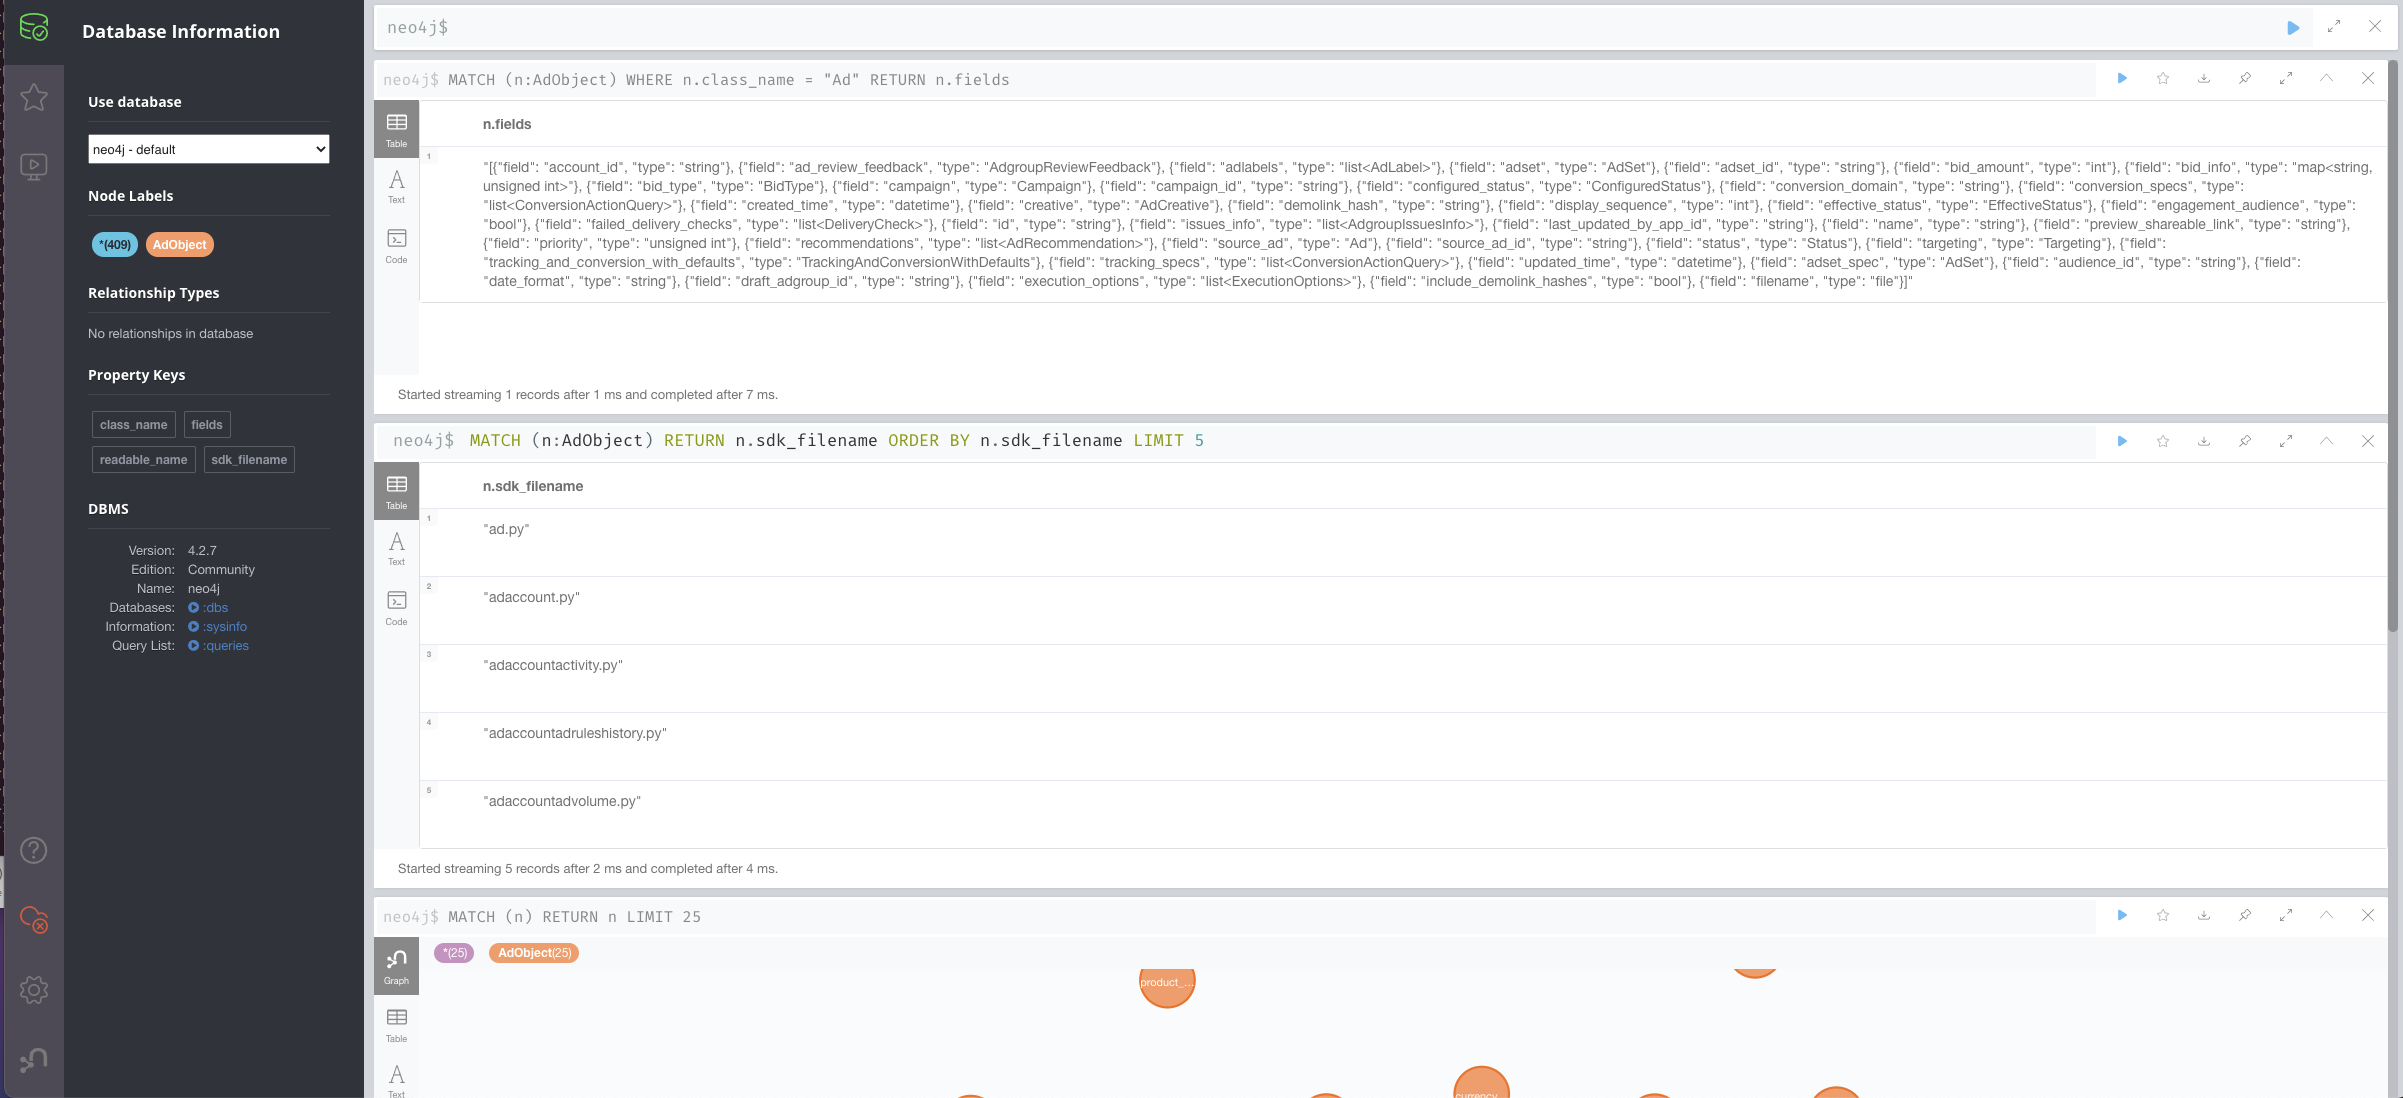
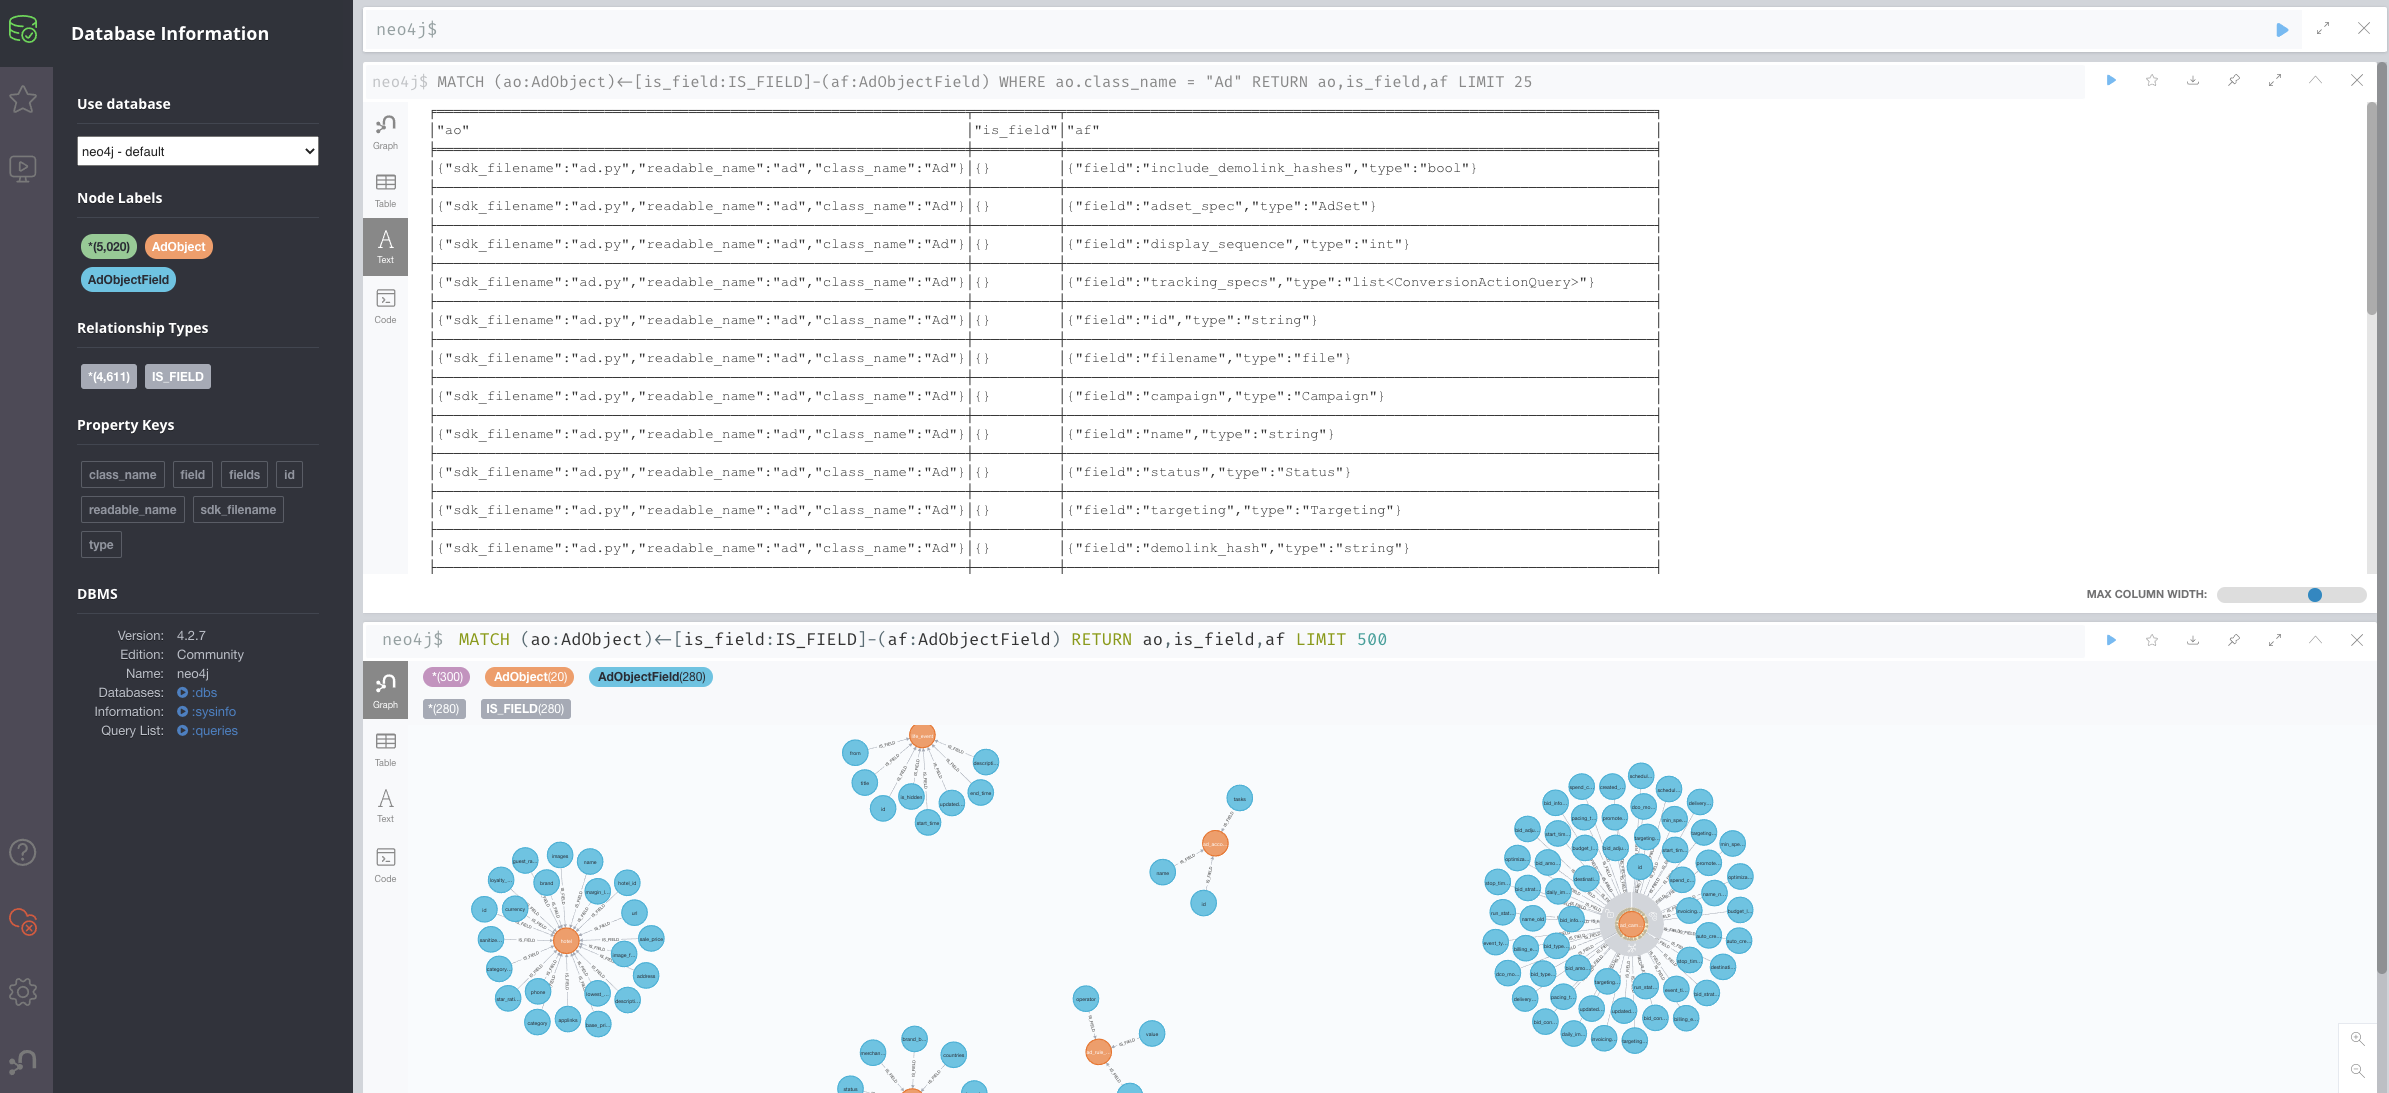
Generate relation between AdObject and AdObjectFields

diff --git a/app/main.py b/app/main.py
@@ -8,6 +8,7 @@ from config import Config
 from helpers.logger import get_app_logger
 
 from models.ad_object import AdObject
+from models.ad_object_field import AdObjectField
 
 logger = get_app_logger("FACEBOOK_SDK_PARSER")
 
@@ -24,10 +25,12 @@ def class_name_to_readable(className: str):
 def parse_tree(filename, tree):
 
     node = {
-        "sdk_filename": filename,
-        "class_name": None,
-        "readable_name": None,
-        "fields": [],
+        "ad_object": {
+            "sdk_filename": filename,
+            "class_name": None,
+            "readable_name": None,
+        },
+        "ad_object_fields": [],
     }
 
     for ctx in tree.body:
@@ -44,8 +47,8 @@ def parse_tree(filename, tree):
         # https://docs.python.org/3/library/ast.html#ast.ClassDef
         if isinstance(ctx, ast.ClassDef):
 
-            node["class_name"] = ctx.name
-            node["readable_name"] = class_name_to_readable(ctx.name)
+            node["ad_object"]["class_name"] = ctx.name
+            node["ad_object"]["readable_name"] = class_name_to_readable(ctx.name)
 
             for ctx2 in ctx.body:
 
@@ -64,14 +67,14 @@ def parse_tree(filename, tree):
 
                     for index, key in enumerate(keys):
 
-                        node["fields"].append(
+                        node["ad_object_fields"].append(
                             {
                                 "field": str(key.value),
                                 "type": str(values[index].value),
                             }
                         )
 
-            node["fields"] = json.dumps(node["fields"])
+            # node["ad_object_fields"] = json.dumps(node["ad_object_fields"])
 
     return node
 
@@ -86,21 +89,25 @@ def main():
 
     logger.info(f"**** FOUND {len(TO_PROCESS)} files to parse ****\n")
 
-    AdObject().reset_ad_object()
+    # RESET THE DATABASE
+    AdObjectField().reset_ad_object_fields()
+    AdObject().reset_ad_objects()
 
     for x in TO_PROCESS:
-
-        node = {"class_name": None, "readable_name": None, "fields": []}
 
         with open(f"{Config.FULL_PATH}/{x}", "r") as source_file:
             tree = ast.parse(source_file.read())
 
         node = parse_tree(filename=x, tree=tree)
 
-        try:
-            logger.info(f" ++ TRYING TO INSERT : {node['class_name']}")
+        # logger.info(node)
 
-            AdObject().add_ad_object(node)
+        try:
+            logger.info(f" ++ TRYING TO INSERT : {node['ad_object']['class_name']}")
+
+            id = AdObject().add_ad_object(node["ad_object"])
+
+            AdObjectField().add_ad_object_fields(id, node["ad_object_fields"])
 
         except Exception as error:
 

diff --git a/app/models/ad_object_field.py b/app/models/ad_object_field.py
@@ -1,0 +1,38 @@
+from neo4j import GraphDatabase
+
+from config import Config
+
+from helpers.logger import LoggerMixin
+
+
+class AdObjectField(LoggerMixin):
+    def __init__(self):
+        self._driver = GraphDatabase.driver(
+            Config.NEO4J_HOST,
+        )
+
+    @classmethod
+    def create_ad_object_field(cls, tx, ad_object_id, fields):
+        return tx.run(
+            "MATCH ( ao: AdObject ) WHERE ID(ao) = $ad_object_id "
+            "UNWIND $fields as fields "
+            "CREATE (ao)<-[:IS_FIELD]-(af:AdObjectField) SET af = fields",
+            {"fields": fields, "ad_object_id": ad_object_id},
+        )
+
+    @classmethod
+    def reset_the_world(clx, tx):
+        return tx.run(" MATCH ( af:AdObjectField) DETACH DELETE af ")
+
+    def add_ad_object_fields(self, ad_object_id, fields):
+        with self._driver.session() as session:
+            return session.write_transaction(
+                self.create_ad_object_field, ad_object_id=ad_object_id, fields=fields
+            )
+
+    def reset_ad_object_fields(self):
+        with self._driver.session() as session:
+            return session.write_transaction(self.reset_the_world)
+
+
+# MATCH (n:AdObject)<-[is_field:IS_FIELD]-(nf:AdObjectField) RETURN n,is_field,nf LIMIT 25

diff --git a/app/models/ad_object.py b/app/models/ad_object.py
@@ -13,16 +13,21 @@ class AdObject(LoggerMixin):
 
     @classmethod
     def create_ad_object(cls, tx, ad_object):
-        return tx.run(" CREATE ( u:AdObject) SET u = $ad_object ", ad_object=ad_object)
+        result = tx.run(
+            " CREATE ( ao:AdObject) SET ao = $ad_object RETURN id(ao)",
+            ad_object=ad_object,
+        )
+
+        return result.single()[0]
 
     @classmethod
     def reset_the_world(clx, tx):
-        return tx.run(" MATCH ( u:AdObject) DELETE u ")
+        return tx.run(" MATCH ( ao:AdObject) DETACH DELETE ao ")
 
     def add_ad_object(self, ad_object):
         with self._driver.session() as session:
             return session.write_transaction(self.create_ad_object, ad_object)
 
-    def reset_ad_object(self):
+    def reset_ad_objects(self):
         with self._driver.session() as session:
             return session.write_transaction(self.reset_the_world)

diff --git a/README.md b/README.md
@@ -14,7 +14,13 @@ Navigate to `http://localhost:7474/browser/`
 
 ![index](https://github.com/Just1B/facebook-python-business-sdk-parser/raw/master/images/neo4j.png)
 
-![index](https://github.com/Just1B/facebook-python-business-sdk-parser/raw/master/images/fb_sdk_github.png)
+## GET AdObject and AdObjectFields
+
+```
+MATCH (ao:AdObject)<-[is_field:IS_FIELD]-(af:AdObjectField)
+RETURN ao,is_field,af
+LIMIT 25
+```
 
 # Licence
 

diff --git a/TODO.md b/TODO.md
@@ -1,2 +1,3 @@
-- Generate relations between node fields
-- testing
+- [ X ] Generate relations between AdObject and AdObjectField
+- [ ] Generate relations between AdObjectField and other AdObject
+- [ ] Testing
